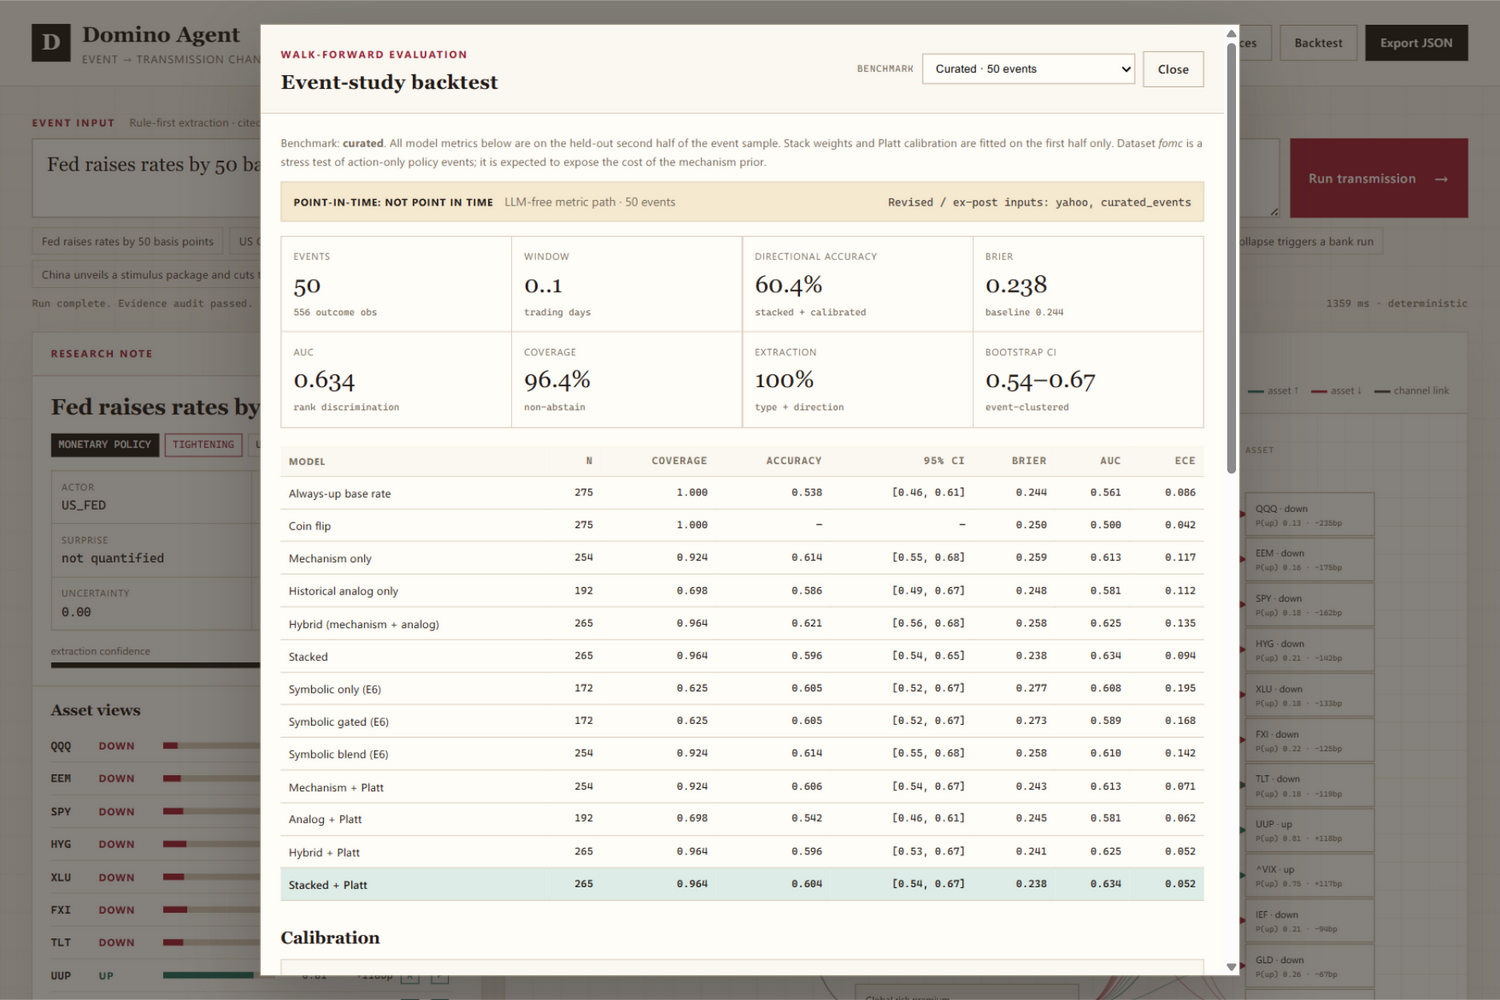
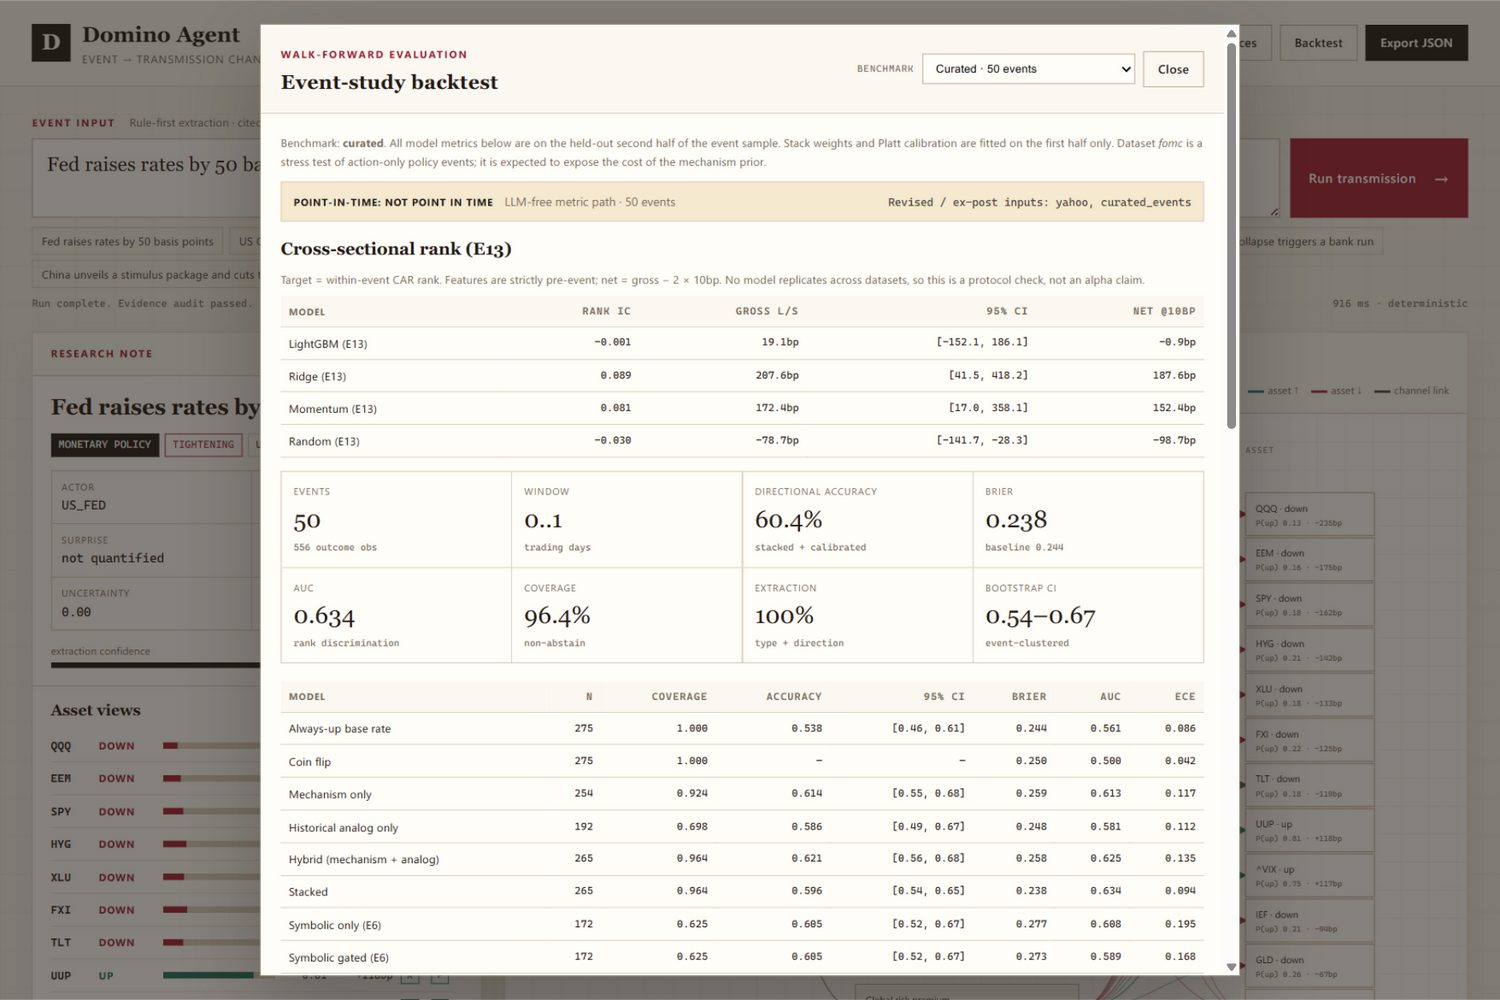
feat(ui): surface cross-sectional rank panel

Changed region(s): [[0.184, 0.217, 0.828, 0.961]]

diff --git a/frontend/app.js b/frontend/app.js
@@ -24,6 +24,10 @@ const MODEL_LABELS = {
   symbolic_test: "Symbolic only (E6)",
   symbolic_gated_test: "Symbolic gated (E6)",
   symbolic_blend_test: "Symbolic blend (E6)",
+  lightgbm: "LightGBM (E13)",
+  ridge: "Ridge (E13)",
+  momentum: "Momentum (E13)",
+  random: "Random (E13)",
 };
 
 const EXAMPLES = [
@@ -627,6 +631,7 @@ function renderBacktest(data) {
   $("#backtestBody").innerHTML = `
     <p class="hint" style="margin:0 0 12px">Benchmark: <strong>${escapeHtml(data.config.dataset)}</strong>. All model metrics below are on the held-out second half of the event sample. Stack weights and Platt calibration are fitted on the first half only. Dataset <em>fomc</em> is a stress test of action-only policy events; it is expected to expose the cost of the mechanism prior.</p>
     <div id="pitBody" class="pit"></div>
+    <div id="xsBody" class="xs"></div>
     <div class="metric-grid">
       ${metricCard("Events", data.n_events, `${data.n_outcome_observations} outcome obs`)}
       ${metricCard("Window", `0..${data.config.window_end}`, "trading days")}
@@ -658,6 +663,44 @@ function renderBacktest(data) {
     </div>
   `;
   loadPointInTime(data.config.dataset);
+  loadCrossSectional(data.config.dataset);
+}
+
+async function loadCrossSectional(dataset) {
+  const el = $("#xsBody");
+  if (!el) return;
+  el.innerHTML = `<div class="placeholder">Running cross-sectional rank + cost audit…</div>`;
+  try {
+    const data = await fetchJSON(`/api/cross-sectional?dataset=${encodeURIComponent(dataset)}`);
+    const rows = ["lightgbm", "ridge", "momentum", "random"]
+      .map((name) => {
+        const metrics = data.models[name] || {};
+        const ci = metrics.gross_ls_ci
+          ? `[${fmt(metrics.gross_ls_ci[0], 1)}, ${fmt(metrics.gross_ls_ci[1], 1)}]`
+          : "—";
+        const net10 = metrics.net_ls_bps ? metrics.net_ls_bps["10"] : null;
+        return `
+          <tr>
+            <td>${escapeHtml(MODEL_LABELS[name] || name)}</td>
+            <td class="num">${fmt(metrics.mean_rank_ic, 3)}</td>
+            <td class="num">${metrics.gross_ls_bps === undefined ? "—" : `${fmt(metrics.gross_ls_bps, 1)}bp`}</td>
+            <td class="num">${ci}</td>
+            <td class="num">${net10 === null ? "—" : `${fmt(net10, 1)}bp`}</td>
+          </tr>
+        `;
+      })
+      .join("");
+    el.innerHTML = `
+      <h3 class="section-title">Cross-sectional rank (E13)</h3>
+      <p class="hint" style="margin:0 0 8px">Target = within-event CAR rank. Features are strictly pre-event; net = gross − 2 × 10bp. No model replicates across datasets, so this is a protocol check, not an alpha claim.</p>
+      <table>
+        <thead><tr><th>Model</th><th class="num">Rank IC</th><th class="num">Gross L/S</th><th class="num">95% CI</th><th class="num">Net @10bp</th></tr></thead>
+        <tbody>${rows}</tbody>
+      </table>
+    `;
+  } catch (error) {
+    el.innerHTML = `<div class="empty-state">Cross-sectional audit unavailable: ${escapeHtml(error.message)}</div>`;
+  }
 }
 
 async function loadPointInTime(dataset) {

diff --git a/frontend/index.html b/frontend/index.html
@@ -8,7 +8,7 @@
       name="description"
       content="Auditable event-driven macro transmission: extraction, cited mechanisms, deterministic channels and event-study calibration."
     />
-    <link rel="stylesheet" href="/styles.css?v=0.6.0" />
+    <link rel="stylesheet" href="/styles.css?v=0.7.0" />
   </head>
   <body>
     <header class="topbar">
@@ -167,6 +167,6 @@
       </div>
     </div>
 
-    <script src="/app.js?v=0.6.0" defer></script>
+    <script src="/app.js?v=0.7.0" defer></script>
   </body>
 </html>

diff --git a/frontend/styles.css b/frontend/styles.css
@@ -972,8 +972,13 @@ select {
   padding: 20px;
 }
 
-.pit {
+.pit,
+.xs {
   margin-bottom: 14px;
+}
+
+.xs .section-title {
+  margin-top: 4px;
 }
 
 .pit-card {
